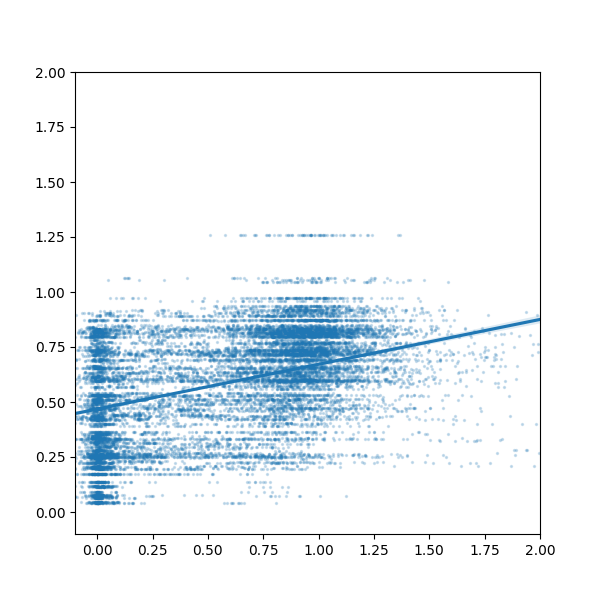
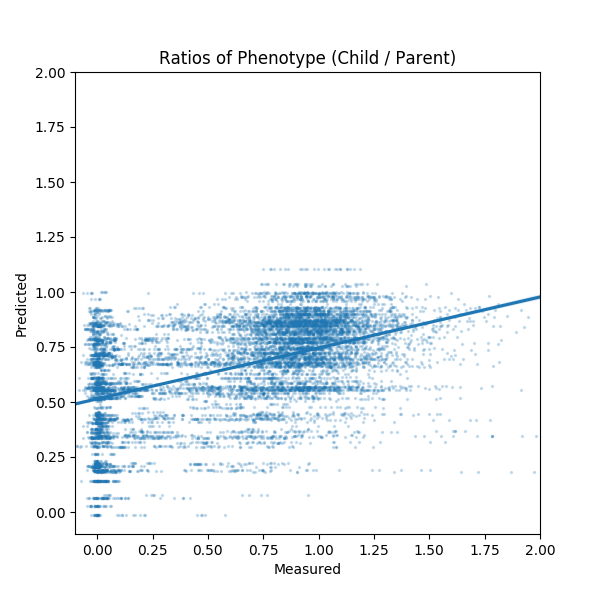
Added new features, labeled axes

diff --git a/docs/20171205_lib2_ind/code/20180510.single_mismatch_diffs.py b/docs/20171205_lib2_ind/code/20180510.single_mismatch_diffs.py
@@ -211,9 +211,8 @@ oneoff_features = pd.concat([oneoffs] + featset, axis=1)
 oneoff_features.set_index(['variant', 'original'], inplace=True)
 
 logging.info('Computing geodelt-gammas.'.format(**vars()))
-# TODO(jsh): use division instead of subtraction, or at least think carefully
-#            about it
-spans = ['01', '12', '23', '02', '13', '03']
+# spans = ['01', '12', '23', '02', '13', '03']
+spans = ['13', '03']
 parent_gammas = pd.merge(oneoffs, flatspans,
                          left_on='original', right_on='variant',
                          how='left', suffixes=('', '_orig'))
@@ -226,7 +225,7 @@ child_gammas = child_gammas[['variant', 'original'] + spans]
 child_gammas.set_index(['variant', 'original'], inplace=True)
 geodelt_gammas = child_gammas / parent_gammas
 filtered_geodelt_gammas = geodelt_gammas.where(
-    parent_gammas.abs() > (contspans.std()*2)
+    parent_gammas.abs() > (contspans.std()*10)
 )
 
 logging.info('Formalizing feature columns.'.format(**vars()))
@@ -248,7 +247,8 @@ for chosen_span in spans:
   gss = GroupShuffleSplit(test_size=0.3, random_state=42)
   splititer = gss.split(X_all, y_all, usable_data.reset_index().variant)
   train_rows, test_rows = splititer.next()
-  train_rows = shuffle(train_rows) test_rows = shuffle(test_rows)
+  train_rows = shuffle(train_rows)
+  test_rows = shuffle(test_rows)
   X_train = X_all.loc[train_rows, :]
   y_train = y_all.loc[train_rows]
   X_test = X_all.loc[test_rows, :]
@@ -271,7 +271,7 @@ for chosen_span in spans:
   model = tf.estimator.LinearRegressor(feature_columns=feat_cols)
 
   logging.info('Training the model.'.format(**vars()))
-  model.train(input_fn=train_input_func, steps=2000)
+  model.train(input_fn=train_input_func, steps=20000)
   train_evals[chosen_span] = model.evaluate(input_fn=train_eval_input_func)
   test_evals[chosen_span] = model.evaluate(input_fn=test_eval_input_func)
 
@@ -288,6 +288,9 @@ for chosen_span in spans:
                 's': 2,
                 'alpha': 0.2,
               })
+  plt.xlabel('Measured')
+  plt.ylabel('Predicted')
+  plt.title('Ratios of Phenotype (Child / Parent)')
   plt.savefig(partnerfile(chosen_span + '.png'))
   plt.clf()
 
@@ -296,4 +299,3 @@ for span in test_evals:
   test_evaluation = test_evals[span]
   logging.info('TRAIN EVAL [{span}]:\n{train_evaluation}'.format(**vars()))
   logging.info('TEST EVAL [{span}]:\n{test_evaluation}'.format(**vars()))
-IPython.embed()

diff --git a/docs/20171205_lib2_ind/code/20180517.prediction_model.py b/docs/20171205_lib2_ind/code/20180517.prediction_model.py
@@ -279,19 +279,31 @@ child_gammas = child_gammas[['variant', 'original'] + spans]
 child_gammas.set_index(['variant', 'original'], inplace=True)
 geodelt_gammas = child_gammas / parent_gammas
 filtered_geodelt_gammas = geodelt_gammas.where(
-    parent_gammas.abs() > (contspans.std()*6)
+    parent_gammas.abs() > (contspans.std()*10)
 )
 
 logging.info('Formalizing feature columns.'.format(**vars()))
 oneoff_scored = pd.merge(filtered_geodelt_gammas, oneoff_features,
                          left_index=True, right_index=True)
+feat_cols = list()
 fcol_idx = tf.feature_column.categorical_column_with_vocabulary_list(
     'mm_idx', sorted(oneoff_features.mm_idx.unique()))
+feat_cols.append(fcol_idx)
 fcol_trans = tf.feature_column.categorical_column_with_vocabulary_list(
     'mm_trans', sorted(oneoff_features.mm_trans.unique()))
+feat_cols.append(fcol_trans)
+fcol_brackets = tf.feature_column.categorical_column_with_vocabulary_list(
+    'mm_brackets', sorted(oneoff_features.mm_brackets.unique()))
+feat_cols.append(fcol_brackets)
+fcol_leading = tf.feature_column.categorical_column_with_vocabulary_list(
+    'mm_leading', sorted(oneoff_features.mm_leading.unique()))
+feat_cols.append(fcol_leading)
+fcol_trailing = tf.feature_column.categorical_column_with_vocabulary_list(
+    'mm_trailing', sorted(oneoff_features.mm_trailing.unique()))
+feat_cols.append(fcol_trailing)
 fcol_both = tf.feature_column.categorical_column_with_vocabulary_list(
     'mm_both', sorted(oneoff_features.mm_both.unique()))
-feat_cols = [fcol_idx, fcol_trans, fcol_both]
+feat_cols.append(fcol_both)
 
 train_evals = dict()
 test_evals = dict()
@@ -344,6 +356,9 @@ for chosen_span in spans:
                 's': 2,
                 'alpha': 0.2,
               })
+  plt.xlabel('Measured')
+  plt.ylabel('Predicted')
+  plt.title('Ratios of Phenotype (Child / Parent)')
   plt.savefig(partnerfile(chosen_span + '.png'))
   plt.clf()
 
@@ -352,5 +367,3 @@ for span in test_evals:
   test_evaluation = test_evals[span]
   logging.info('TRAIN EVAL [{span}]:\n{train_evaluation}'.format(**vars()))
   logging.info('TEST EVAL [{span}]:\n{test_evaluation}'.format(**vars()))
-
-IPython.embed()

diff --git a/docs/20171205_lib2_ind/20180510.marco.update.rst b/docs/20171205_lib2_ind/20180510.marco.update.rst
@@ -31,3 +31,4 @@ Jason/Carol/Marco meeting 20180511
 
 * Train on lib2, check out lib3/4 outcomes
 * Experiment with larger thresholds for dropping parents
+* Continue with Tier 2 work
